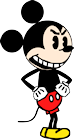
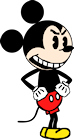
HD Priest sprite

diff --git a/game/sprites/monsters/PriestSprite.cs b/game/sprites/monsters/PriestSprite.cs
@@ -44,10 +44,26 @@ namespace AbrahmanAdventure.sprites
         {
             if (deadSurface == null)
             {
-                standingRightSurface = BuildSpriteSurface("./assets/rendered/priest/stand.png");
+                if (Program.screenHeight > 720)
+                {
+                    standingRightSurface = BuildSpriteSurface("./assets/rendered/1080/priest/stand.png");
+                    walking1RightSurface = BuildSpriteSurface("./assets/rendered/1080/priest/walk1.png");
+                    walking2RightSurface = BuildSpriteSurface("./assets/rendered/1080/priest/walk2.png");
+                }
+                else if (Program.screenHeight > 480)
+                {
+                    standingRightSurface = BuildSpriteSurface("./assets/rendered/720/priest/stand.png");
+                    walking1RightSurface = BuildSpriteSurface("./assets/rendered/720/priest/walk1.png");
+                    walking2RightSurface = BuildSpriteSurface("./assets/rendered/720/priest/walk2.png");
+                }
+                else
+                {
+                    standingRightSurface = BuildSpriteSurface("./assets/rendered/480/priest/stand.png");
+                    walking1RightSurface = BuildSpriteSurface("./assets/rendered/480/priest/walk1.png");
+                    walking2RightSurface = BuildSpriteSurface("./assets/rendered/480/priest/walk2.png");
+                }
+
                 standingLeftSurface = standingRightSurface.CreateFlippedHorizontalSurface();
-                walking1RightSurface = BuildSpriteSurface("./assets/rendered/priest/walk1.png");
-                walking2RightSurface = BuildSpriteSurface("./assets/rendered/priest/walk2.png");
                 walking1LeftSurface = walking1RightSurface.CreateFlippedHorizontalSurface();
                 walking2LeftSurface = walking2RightSurface.CreateFlippedHorizontalSurface();
                 deadSurface = walking1RightSurface.CreateFlippedVerticalSurface();
